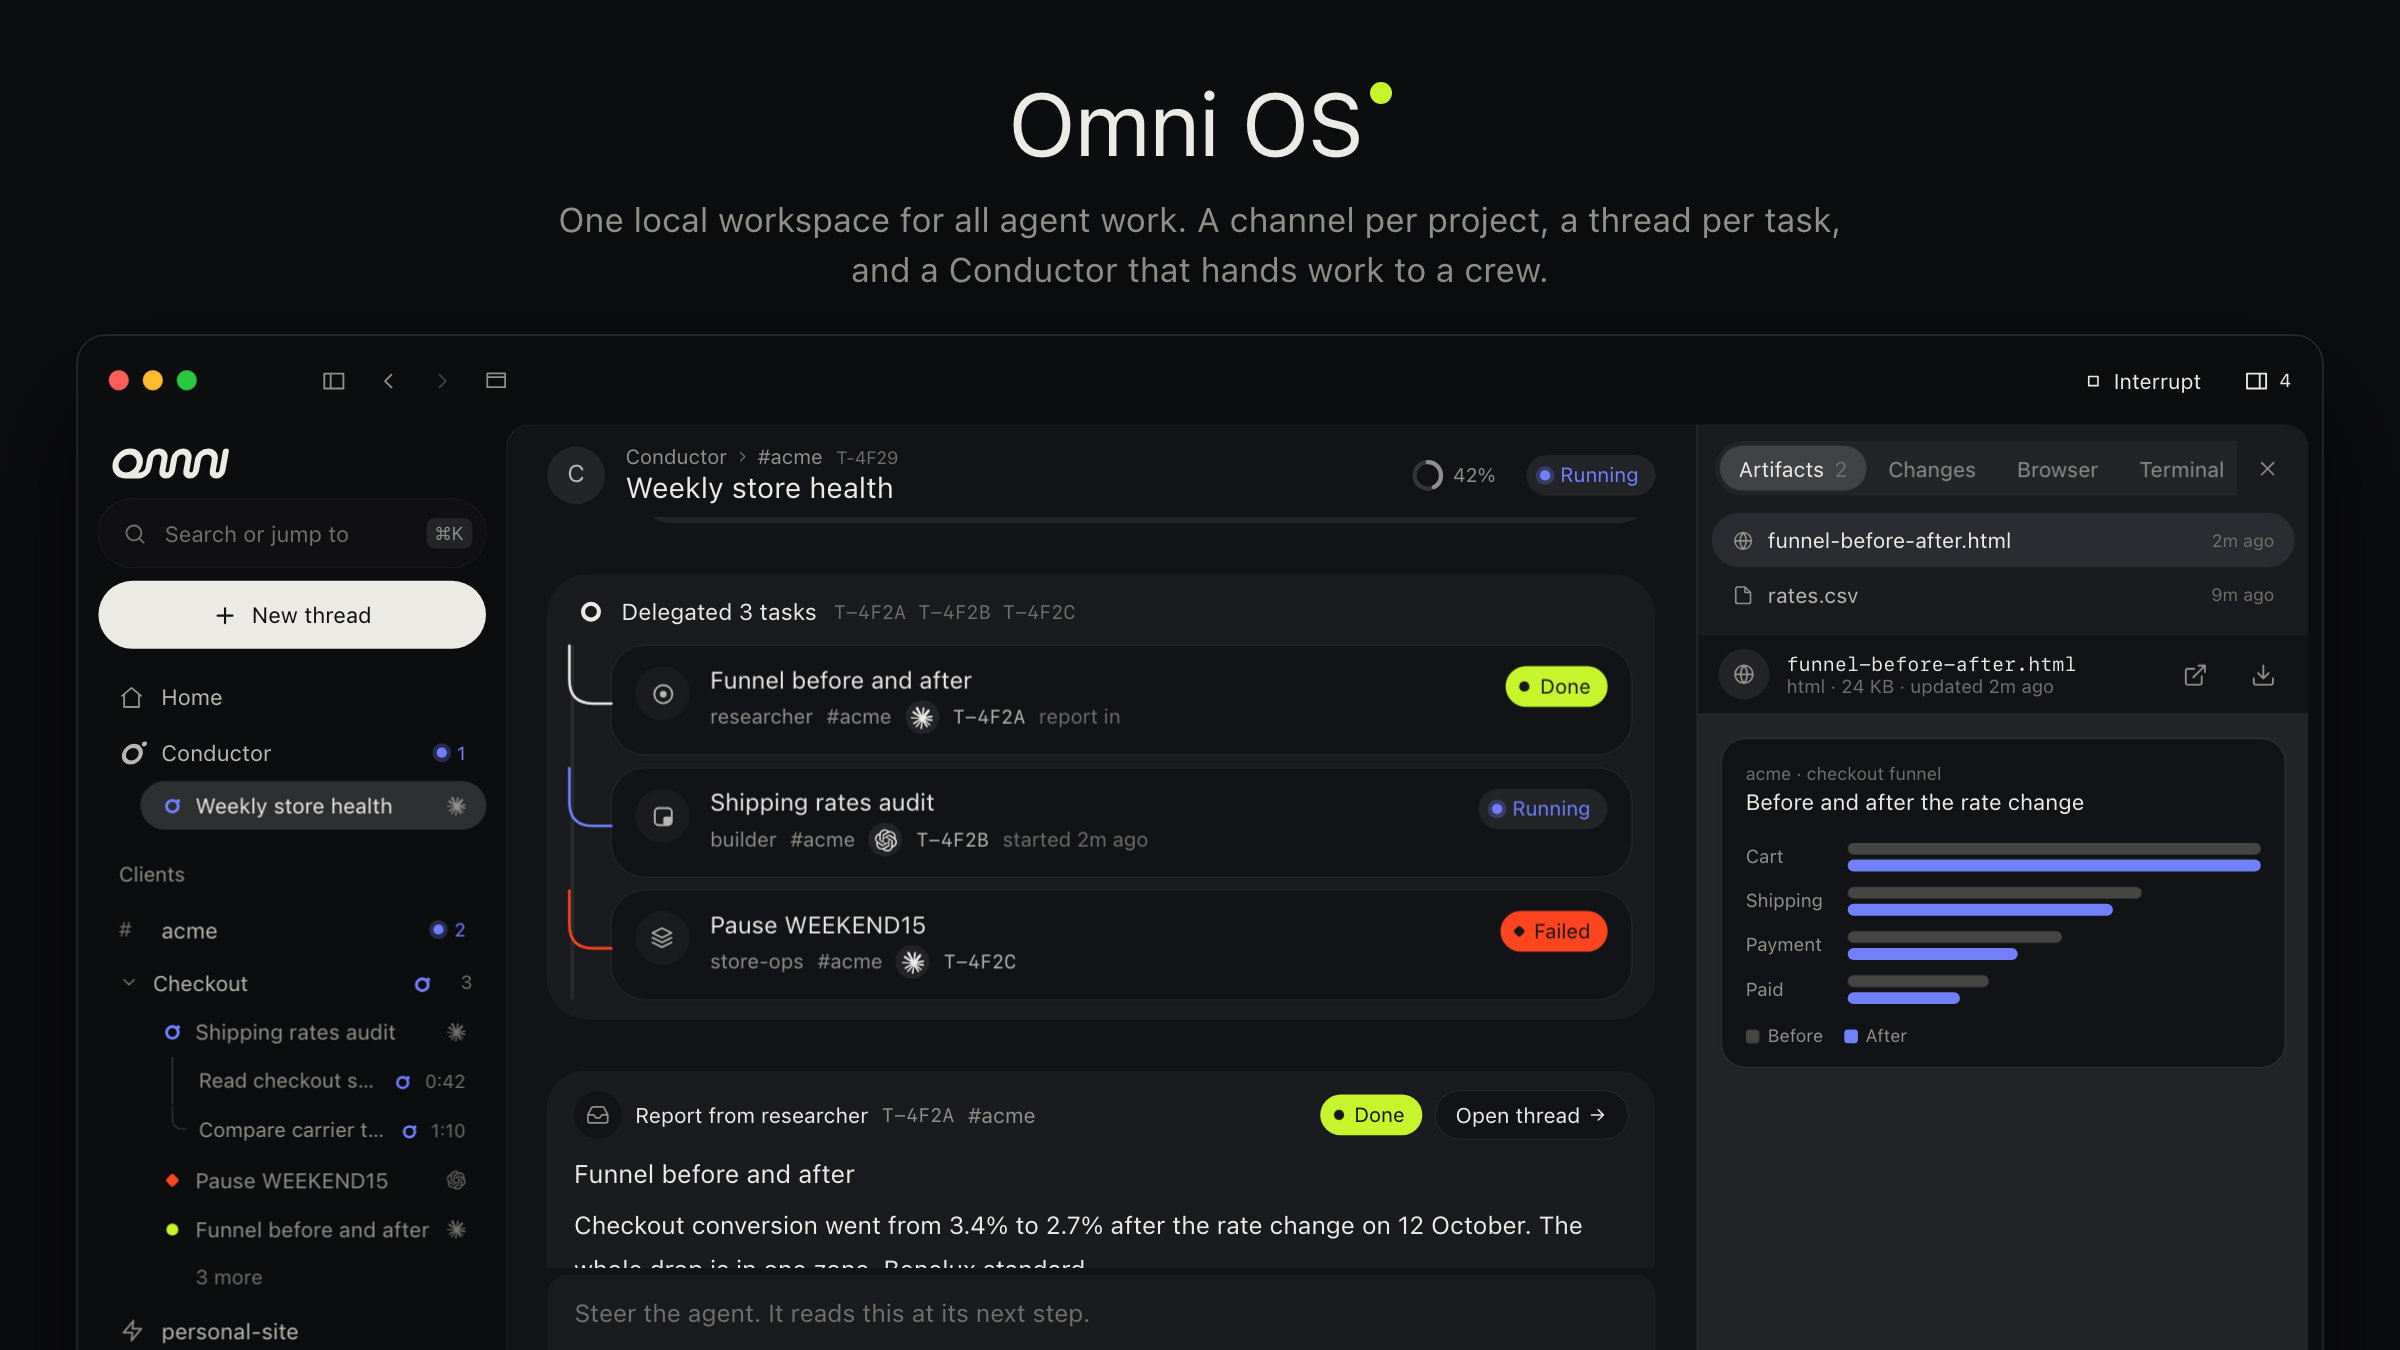
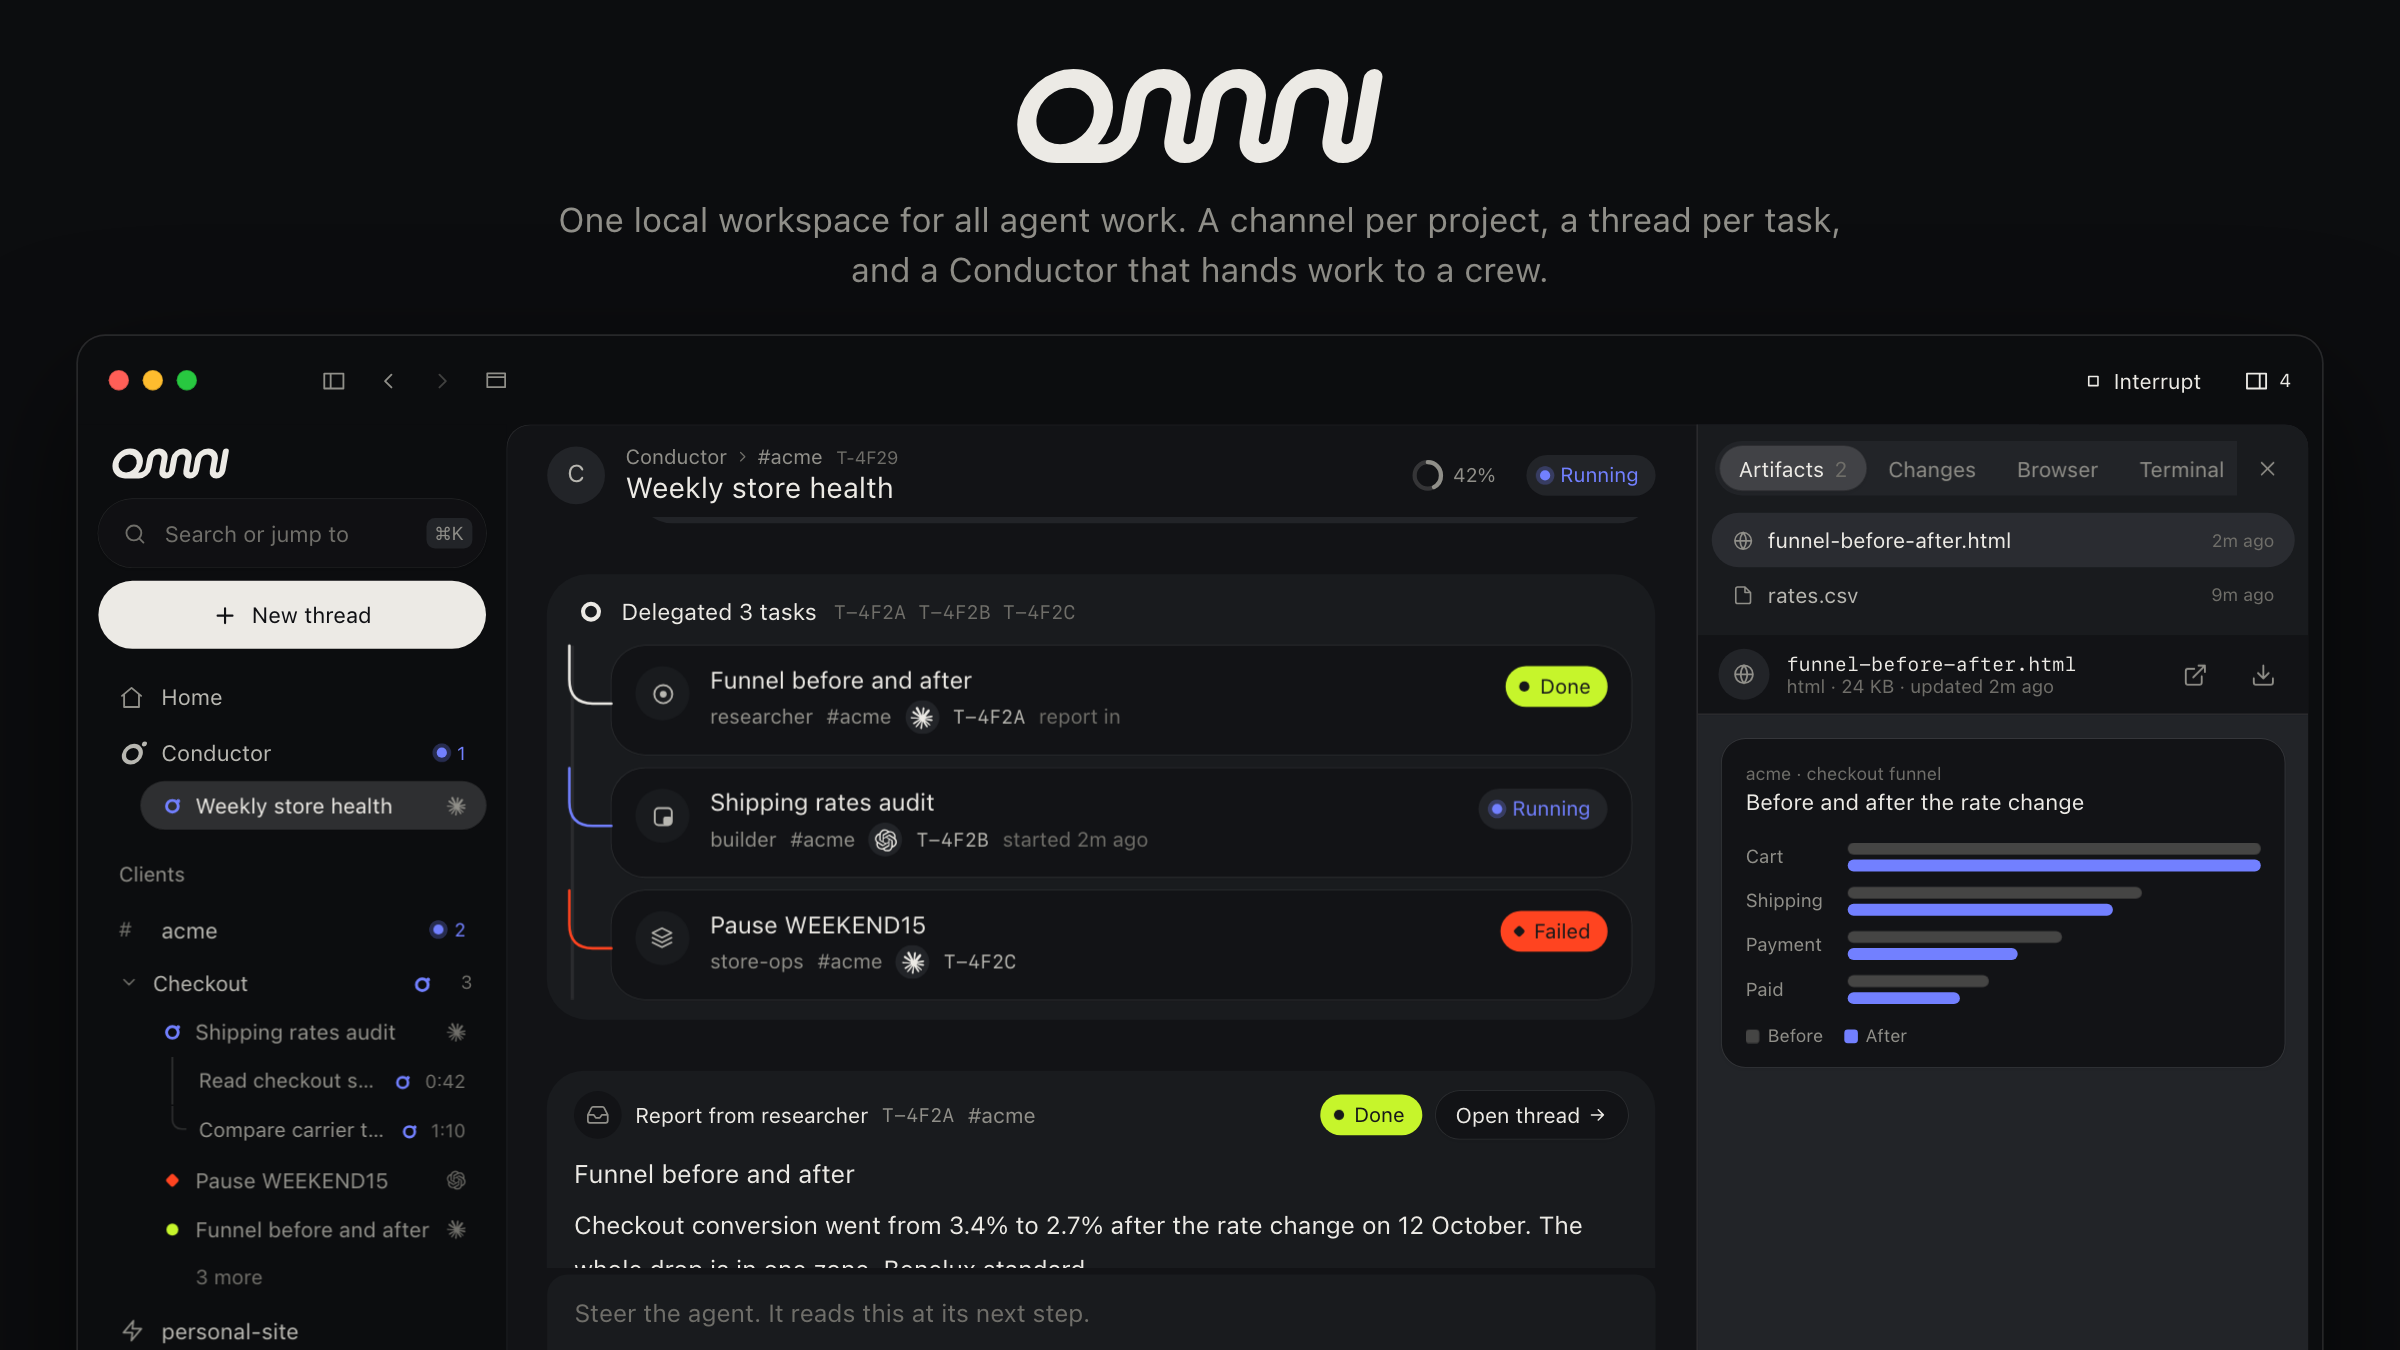
Use the omni wordmark instead of the Omni OS heading in the README hero

Changed region(s): [[0.4062, 0.0311, 0.5938, 0.1244]]

diff --git a/docs/assets/hero/hero.html b/docs/assets/hero/hero.html
@@ -314,10 +314,10 @@ svg.i { display: inline-block; flex: 0 0 auto; vertical-align: middle; overflow:
 [data-theme="dark"] { --hero-bg: #0c0d0f; --hero-glow: rgb(114 128 255 / 0.16); }
 html, body { margin: 0; background: var(--hero-bg); }
 #hero { position: relative; width: 1200px; height: 675px; overflow: hidden; background: radial-gradient(60% 55% at 50% 72%, var(--hero-glow), transparent 70%), var(--hero-bg); font-family: var(--font-sans); color: var(--fg); -webkit-font-smoothing: antialiased; }
-.hero-head { position: absolute; top: 40px; left: 0; right: 0; text-align: center; }
+.hero-head { position: absolute; top: 34px; left: 0; right: 0; text-align: center; }
 .hero-head h1 { margin: 0; font: 600 44px/1.05 var(--font-head); letter-spacing: -0.02em; color: var(--fg); }
-.hero-head h1 i { display: inline-block; width: 11px; height: 11px; margin-left: 4px; border-radius: 50%; background: var(--done); box-shadow: inset 0 0 0 1px var(--done-edge); vertical-align: 26px; }
-.hero-head p { margin: 12px 0 0; font: 400 17px/1.45 var(--font-sans); color: var(--fg-3); }
+.hero-head h1 svg { display: block; margin: 0 auto; }
+.hero-head p { margin: 16px 0 0; font: 400 17px/1.45 var(--font-sans); color: var(--fg-3); }
 .hero-win { position: absolute; top: 168px; left: 50%; width: 1320px; transform: translateX(-50%) scale(.85); transform-origin: 50% 0; }
 .hero-win .win { height: 720px; min-width: 0; }
 #hero, #hero * { transition: none !important; }
@@ -338,7 +338,7 @@ html, body { margin: 0; background: var(--hero-bg); }
 <body>
 <div id="hero">
   <div class="hero-head">
-    <h1>Omni OS<i></i></h1>
+    <h1><svg height="48" viewBox="-15 -1 391 102" role="img" aria-label="omni"><path transform="skewX(-10)" d="M46 90A40 40 0 0 0 86 50A40 40 0 0 0 46 10A40 40 0 0 0 6 50A40 40 0 0 0 46 90L92 90A26 26 0 0 0 118 64L118 34A24 24 0 0 1 166 34L166 74A16 16 0 0 0 198 74L198 34A24 24 0 0 1 246 34L246 74A16 16 0 0 0 278 74L278 38A28 28 0 0 1 334 38L334 74A16 16 0 0 0 366 74L366 10" fill="none" stroke="currentColor" stroke-width="20" stroke-linecap="round" stroke-linejoin="round"></path></svg></h1>
     <p>One local workspace for all agent work. A channel per project, a thread per task,<br>and a Conductor that hands work to a crew.</p>
   </div>
   <div class="hero-win"><div class="win">
